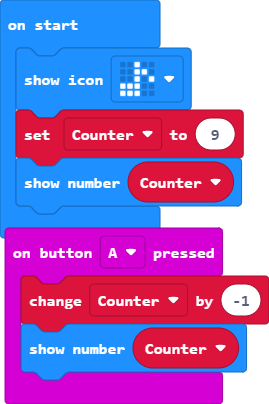
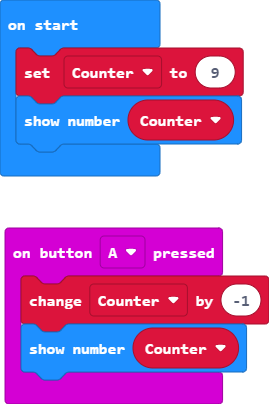
Update main.blocks, main.ts

diff --git a/main.ts b/main.ts
@@ -3,6 +3,5 @@ input.onButtonPressed(Button.A, function () {
     basic.showNumber(Counter)
 })
 let Counter = 0
-basic.showIcon(IconNames.EigthNote)
 Counter = 9
 basic.showNumber(Counter)
